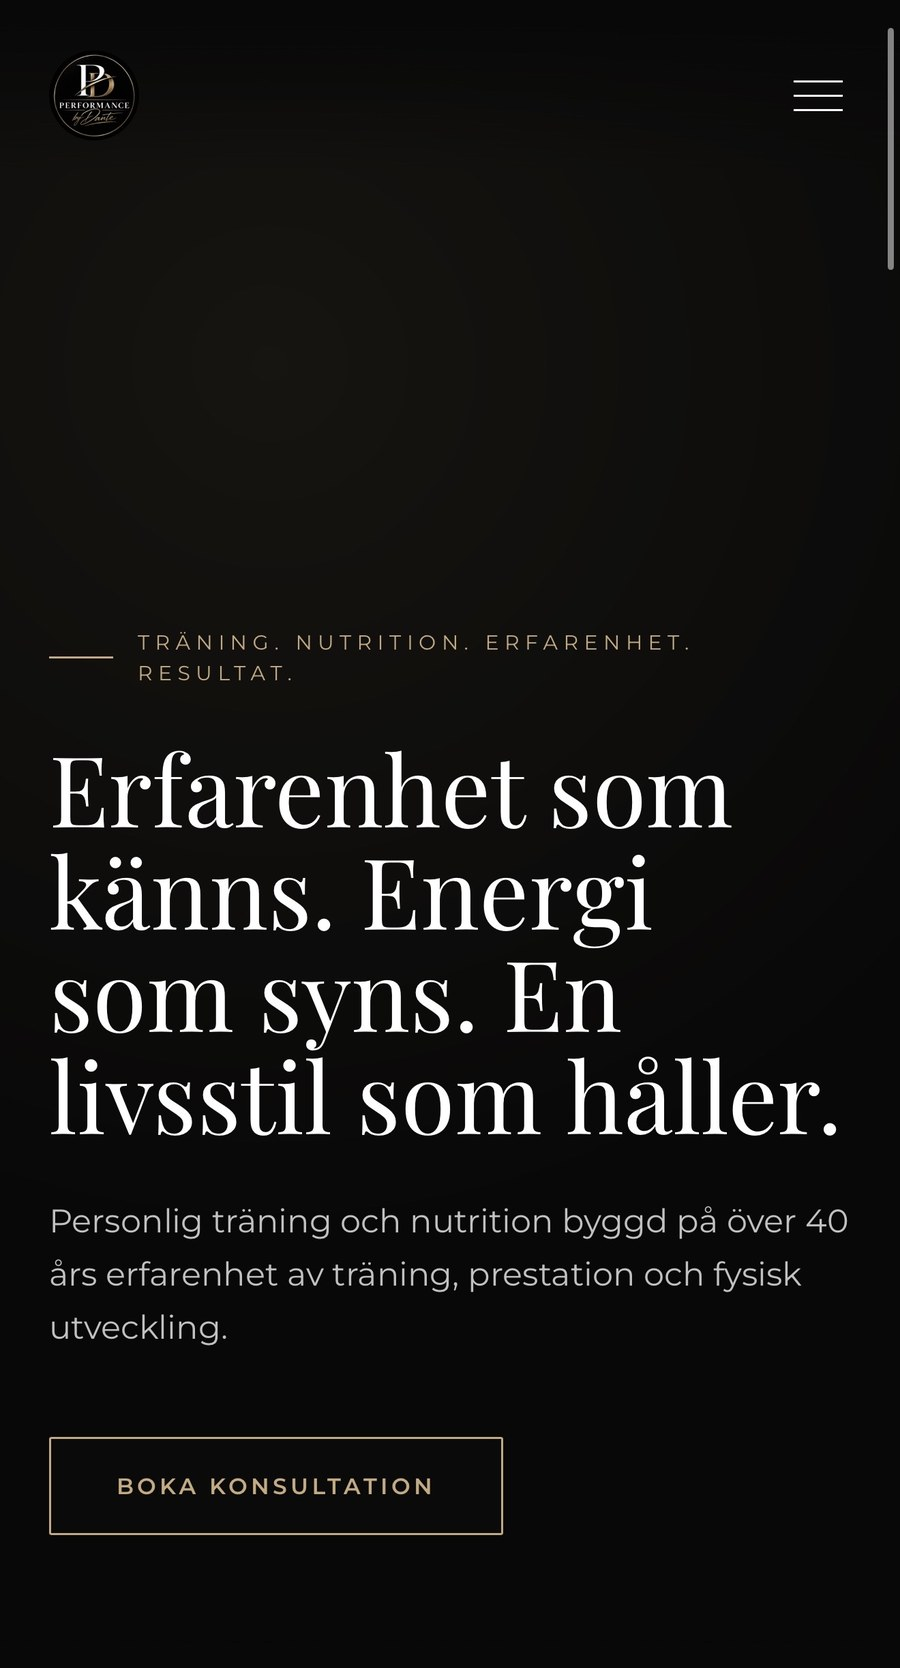
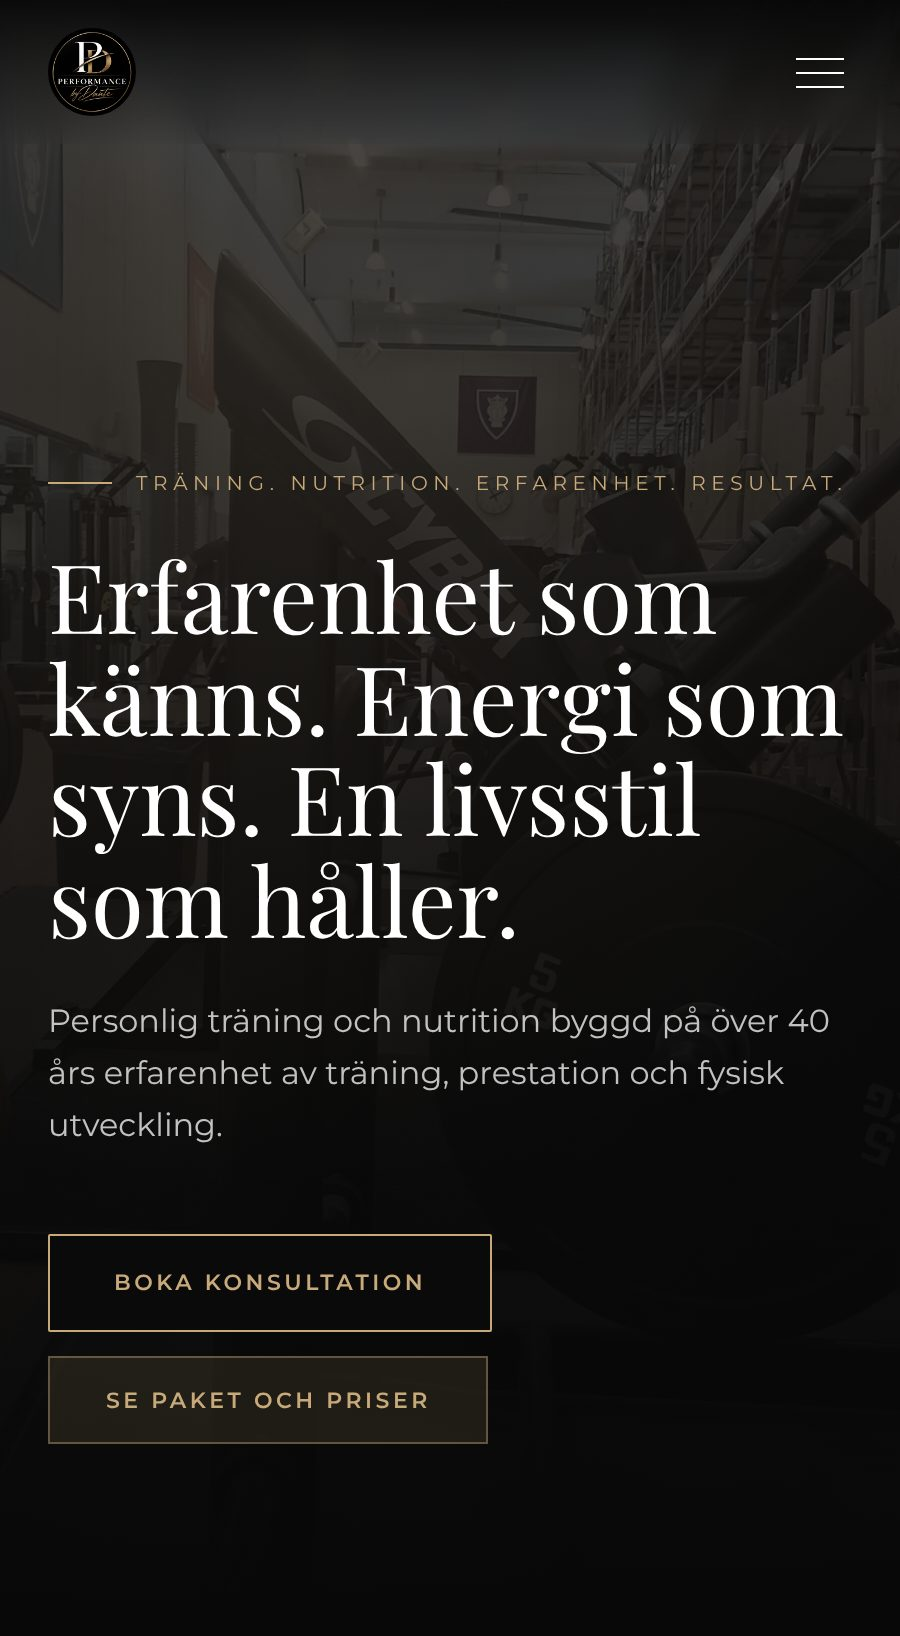
Make Performance By Dante card previewable
Card and View preview link go to performance-by-dante.vercel.app, same
pattern as Masters Gym. Fresh mobile screenshot of the current build.

Claude-Session: https://claude.ai/code/session_017tCqt4MGLaKhzGAP6hnx9J

Changed region(s): [[0.0, 0.0, 1.0, 0.9352], [0.9022, 0.717, 0.9333, 0.7482]]

diff --git a/index.html b/index.html
@@ -441,18 +441,22 @@
       </div>
     </div>
 
-    <div class="fw-card fw-float fw-card-static">
-      <div class="fw-shot-link">
+    <div class="fw-card fw-float">
+      <a class="fw-shot-link" href="https://performance-by-dante.vercel.app" target="_blank" rel="noopener noreferrer">
         <div class="fw-shot fw-shot-3">
           <img src="shot-performance-by-dante.jpg" alt="Performance By Dante website" loading="lazy">
         </div>
-      </div>
+      </a>
       <div class="fw-meta">
         <div>
           <p class="fw-name">Performance By Dante</p>
           <p class="fw-cat" data-i18n="fw_cat_website">Website</p>
           <div class="fw-status-row">
             <span class="fw-badge"><span class="fw-badge-dot" aria-hidden="true"></span><span data-i18n="fw_status_dev">In development</span></span>
+            <a class="fw-preview-link" href="https://performance-by-dante.vercel.app" target="_blank" rel="noopener noreferrer">
+              <span data-i18n="fw_preview_link">View preview</span>
+              <svg width="13" height="13" viewBox="0 0 24 24" fill="none" stroke="currentColor" stroke-width="2.5" stroke-linecap="round" stroke-linejoin="round"><line x1="7" y1="17" x2="17" y2="7"/><polyline points="7 7 17 7 17 17"/></svg>
+            </a>
           </div>
         </div>
       </div>
